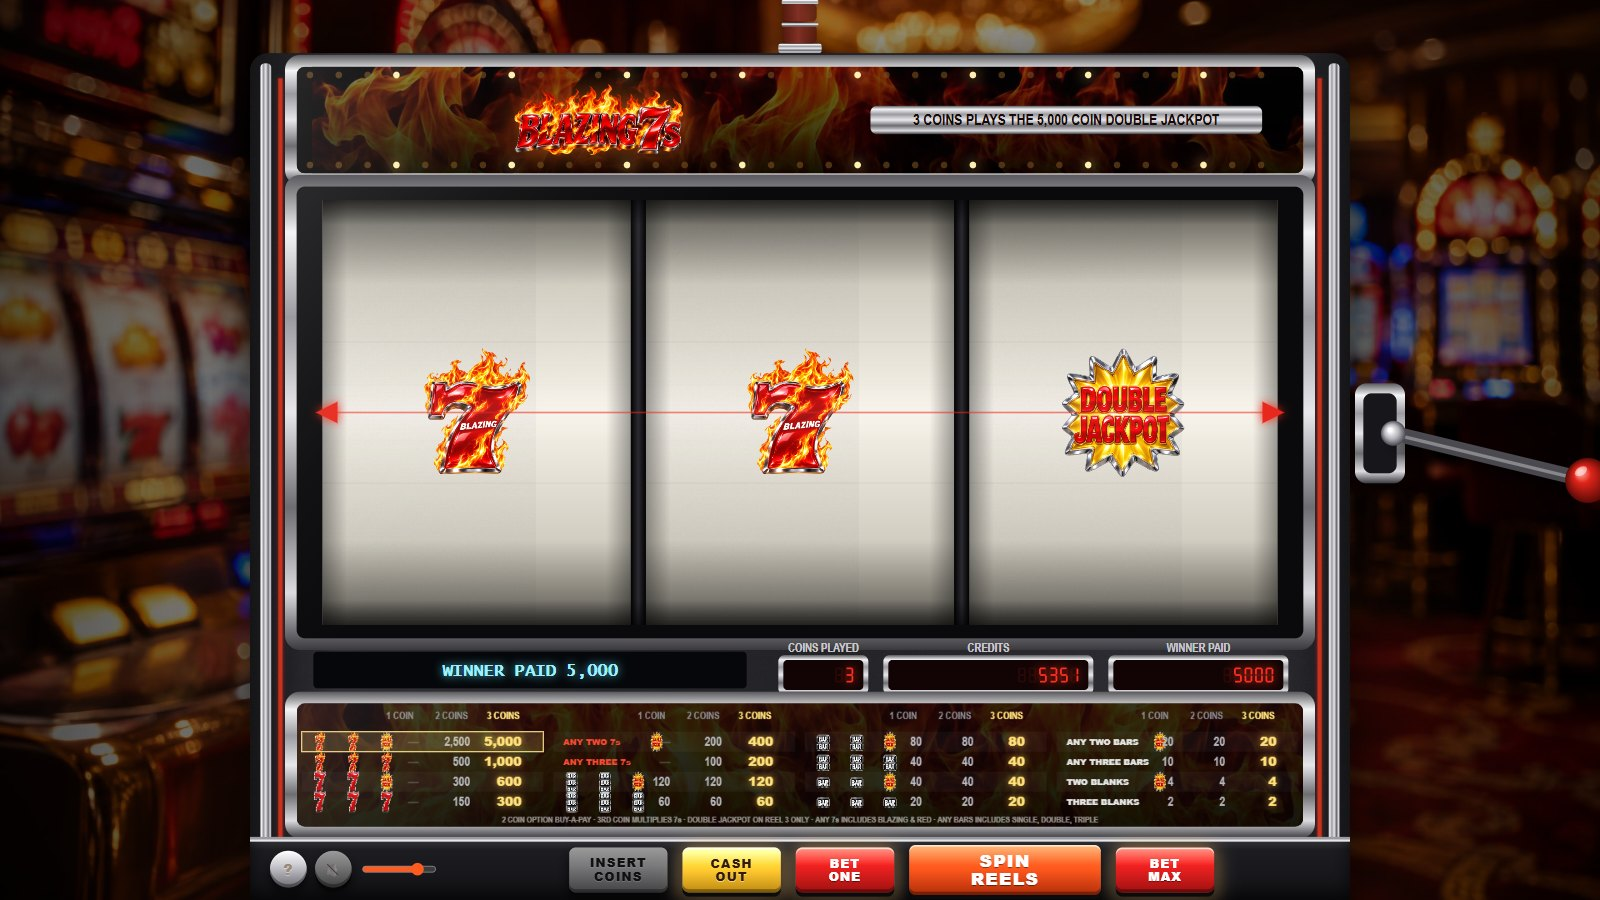
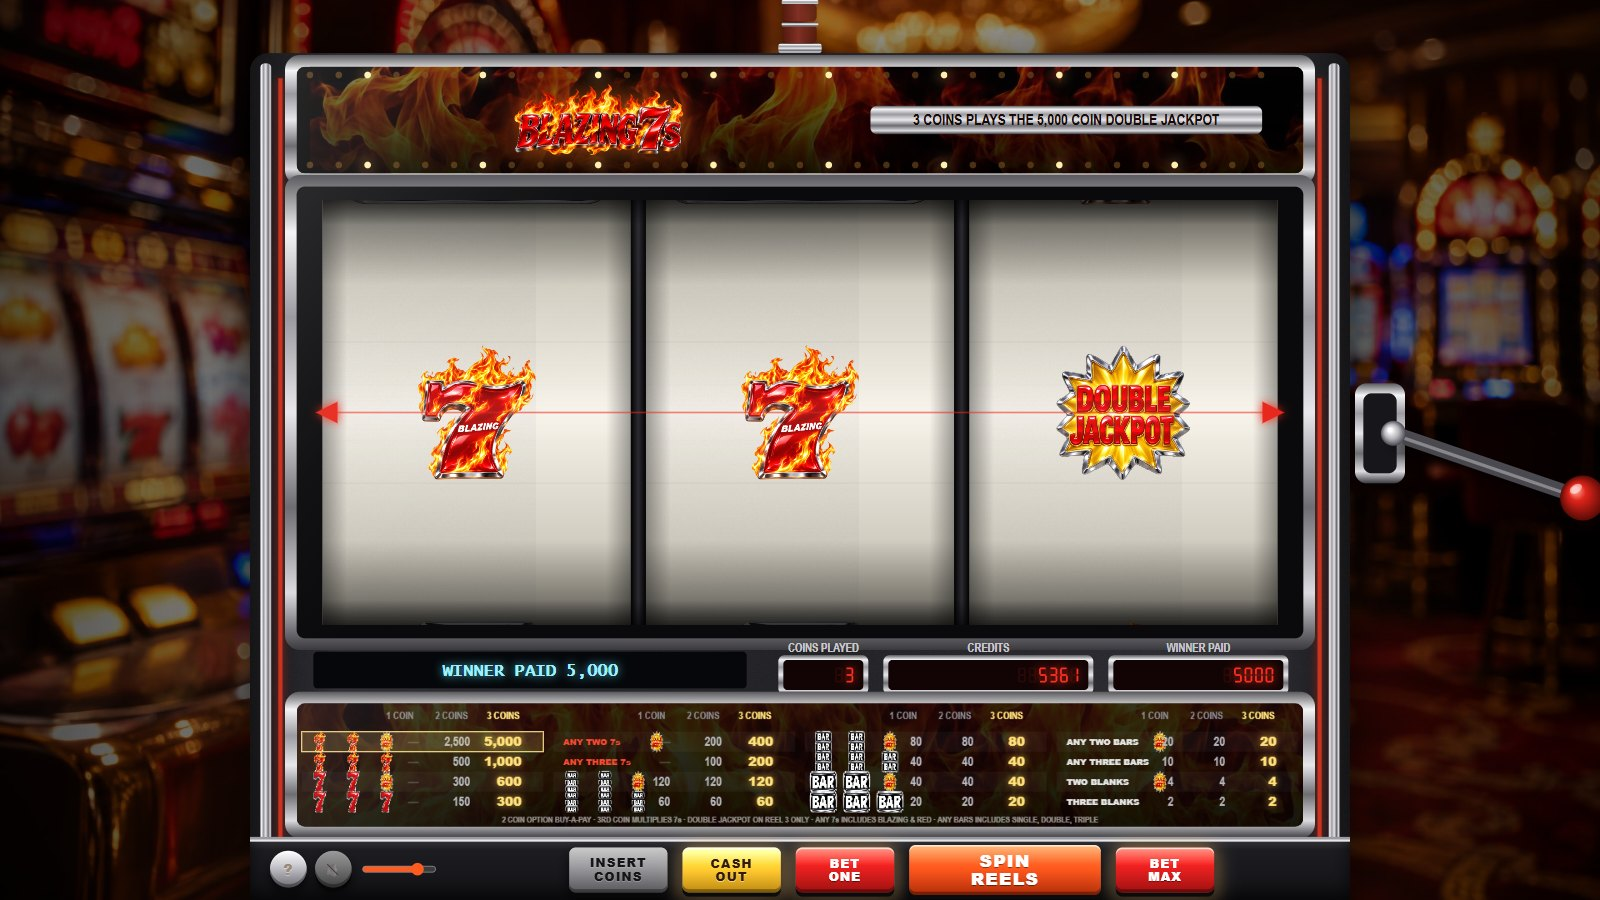
Symbols fill the reel cells
Each symbol image is trimmed to its painted pixels when prepared, so a BAR spans the strip width and the 7s run the full cell height like a real stepper; falls back to the whole image when the canvas is tainted. Per-cell margin reduced to 2 px. Screenshots regenerated.

diff --git a/js/assets.js b/js/assets.js
@@ -32,6 +32,25 @@
   }
   A.roundRect = roundRect;
 
+  /* Bounding box of the painted pixels of an image (alpha above `min`), in image coordinates.
+     Lets a wide BAR fill the width of a wide cell and a 7 fill its height, like the printed
+     strip of a real stepper. Falls back to the whole image when the canvas is tainted (a page
+     opened straight from disk) or nothing is painted. */
+  A.paintedBounds = function (img, min) {
+    const full = { x: 0, y: 0, w: img.width, h: img.height };
+    try {
+      const n = 160, c = document.createElement('canvas'); c.width = c.height = n;
+      const cx = c.getContext('2d', { willReadFrequently: true }); cx.drawImage(img, 0, 0, n, n);
+      const d = cx.getImageData(0, 0, n, n).data;
+      let x0 = n, y0 = n, x1 = -1, y1 = -1;
+      for (let y = 0; y < n; y++) for (let x = 0; x < n; x++) if (d[(y * n + x) * 4 + 3] > (min || 48)) { if (x < x0) x0 = x; if (x > x1) x1 = x; if (y < y0) y0 = y; if (y > y1) y1 = y; }
+      if (x1 < 0) return full;
+      const sx = img.width / n, sy = img.height / n;
+      const bx = Math.max(0, (x0 - 1) * sx), by = Math.max(0, (y0 - 1) * sy);
+      return { x: bx, y: by, w: Math.min(img.width, (x1 + 2) * sx) - bx, h: Math.min(img.height, (y1 + 2) * sy) - by };
+    } catch (e) { return full; }
+  };
+
   /* symbol variants per id: [sharp, blur1, blur2, blur3] at the given pixel size */
   A.prepareSymbols = function (w, h) {
     A.symW = w; A.symH = h;
@@ -40,9 +59,10 @@
       const base = document.createElement('canvas'); base.width = w; base.height = h;
       const ctx = base.getContext('2d'), img = A.images['sym_' + id];
       if (img) {
-        const m = 0.04, aw = w * (1 - 2 * m), ah = h * (1 - 2 * m);
-        const sc = Math.min(aw / img.width, ah / img.height), dw = img.width * sc, dh = img.height * sc;
-        ctx.drawImage(img, (w - dw) / 2, (h - dh) / 2, dw, dh);
+        /* the painted part of the artwork fills 96% of the cell in its limiting direction */
+        const b = A.paintedBounds(img), m = 0.02, aw = w * (1 - 2 * m), ah = h * (1 - 2 * m);
+        const sc = Math.min(aw / b.w, ah / b.h), dw = b.w * sc, dh = b.h * sc;
+        ctx.drawImage(img, b.x, b.y, b.w, b.h, (w - dw) / 2, (h - dh) / 2, dw, dh);
       } else drawFallback(ctx, id, w, h);
       const variants = [base];
       [0.08, 0.18, 0.32].forEach(frac => {

diff --git a/js/renderer.js b/js/renderer.js
@@ -183,7 +183,7 @@
     const id = reel.symbolAt(k); if (id === 'BL') return;
     const img = A.symbol(id, level); if (!img) return;
     const u = reel.pos - k; if (Math.abs(u) > 2.1) return;
-    const n = level > 0 ? 4 : 10, pad = 10, dw = REEL.w - 2 * pad, dx = rx + pad;
+    const n = level > 0 ? 4 : 10, pad = 2, dw = REEL.w - 2 * pad, dx = rx + pad;
     for (let j = 0; j < n; j++) {
       const u0 = u - 0.5 + j / n, u1 = u0 + 1 / n, y0 = REEL.cy + proj(u0), y1 = REEL.cy + proj(u1);
       if (y1 <= REEL.y - 1 || y0 >= REEL.y + REEL.winH + 1) continue;
